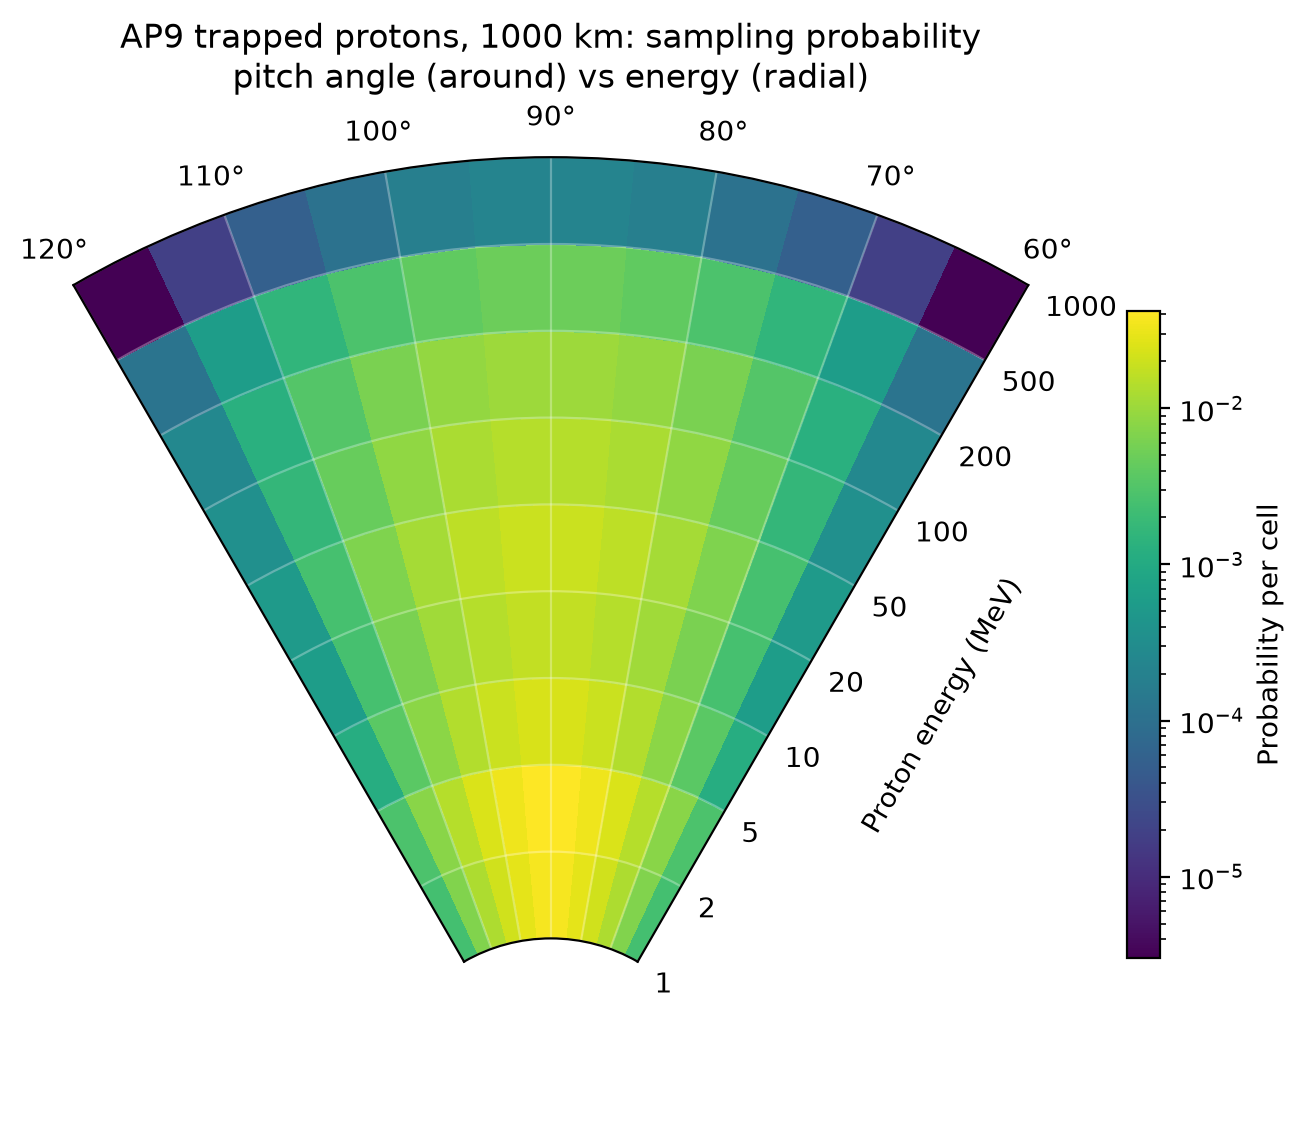
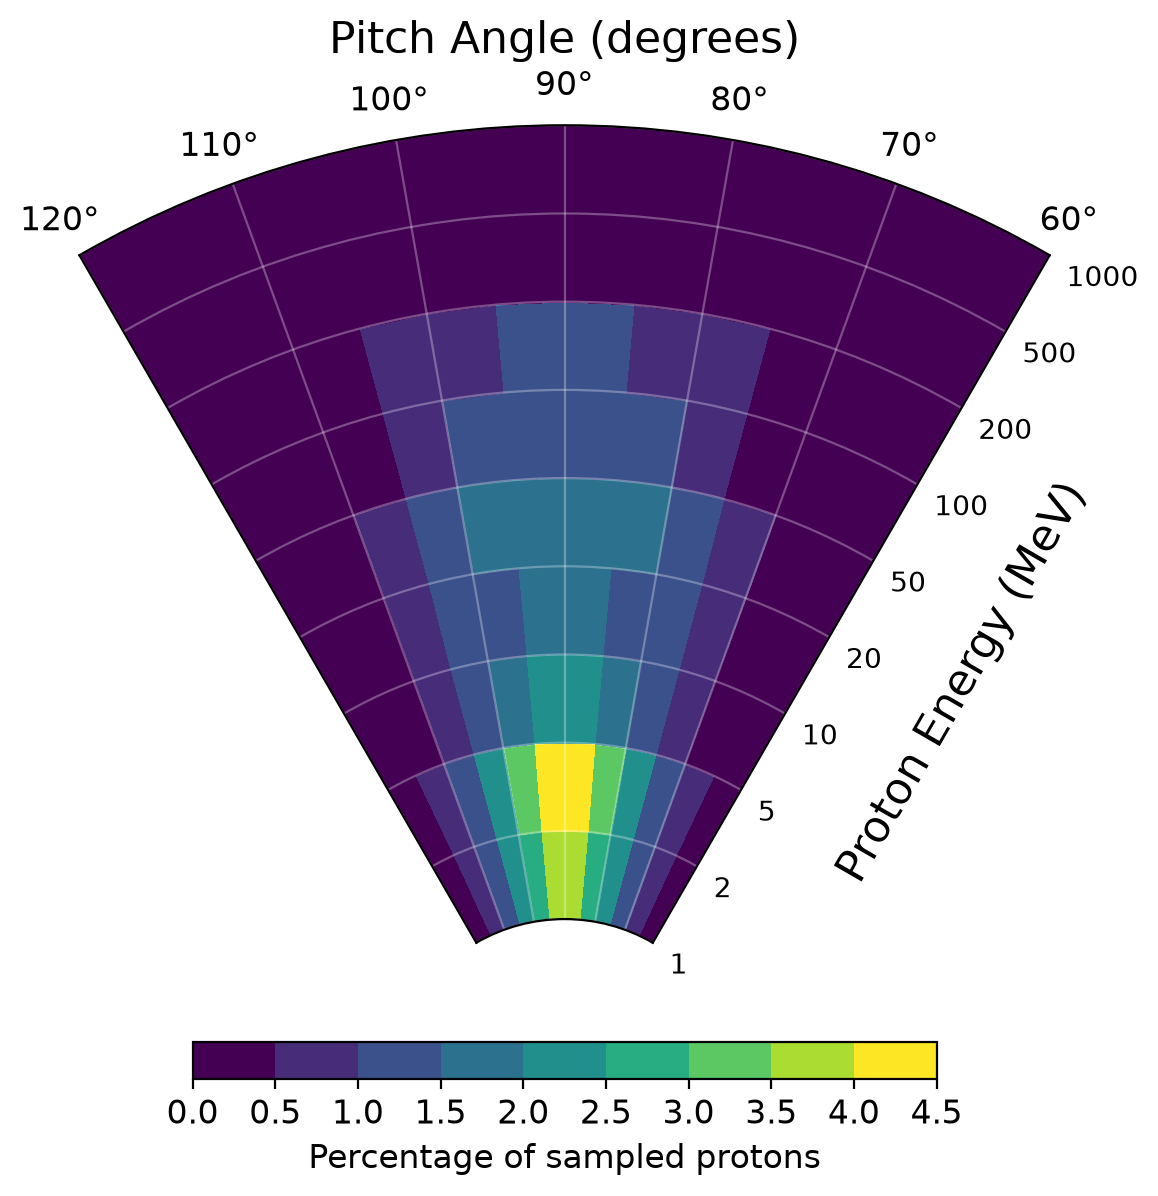
make end and side panels functional for counting and spectrum; initial plots with 200k particles

diff --git a/scripts/plot_neutron_energy_spectrum.py b/scripts/plot_neutron_energy_spectrum.py
@@ -1,5 +1,5 @@
 #!/usr/bin/env python3
-"""Reproduce the 'Neutron Energy Spectrum Shape' plot from EscapeNeutrons ntuples.
+"""Plot the escaping (or panel-entering, with --panel) neutron energy spectrum as raw counts.
 
 python plot_neutron_energy_spectrum.py build/outputs/proton_100MeV_Vacuum_seed1.root:Vacuum \
     build/outputs/proton_100MeV_Aluminum_seed1.root:Aluminum \
@@ -30,23 +30,59 @@ REF_COLORS = {  # darker shade of each material for the old/reference runs
     "WGPu": "#8b1a14",
 }
 
-E_MAX_MEV = 20.0
-N_BINS = 20  # 1 MeV wide bins
+BIN_MEV = 1.0
+E_MAX_MEV = 20.0  # above ~20 MeV it's hull background that doesn't depend on the payload; --emax to change
 
 
-def build_curve(spec: str, bin_edges: np.ndarray, bin_centers: np.ndarray):
+def load_energies(spec: str, panel: str | None = None):
     path, label = spec.rsplit(":", 1)
     with uproot.open(path) as f:
-        energies = f["EscapeNeutrons"]["escapeE_MeV"].array(library="np")
-        n_events = f["Events"].num_entries
+        if panel:
+            hits = f["PanelHits"].arrays(["panel", "E_MeV"], library="np")
+            energies = hits["E_MeV"][hits["panel"] == {"side": 0, "end": 1}[panel]]
+        else:
+            energies = f["EscapeNeutrons"]["escapeE_MeV"].array(library="np")
+        n_events = int(f["Events"].num_entries)
+    return label, n_events, energies
+
+
+def histogram(label, n_events, energies, bin_edges):
     counts, _ = np.histogram(energies, bins=bin_edges)
-    counts = counts.astype(float)
+    centers = 0.5 * (bin_edges[:-1] + bin_edges[1:])
+    keep = counts > 0
+    return label, n_events, centers[keep], counts[keep]
 
-    norm = counts[0] if counts[0] > 0 else 1.0
-    rel_counts = counts / norm
 
-    keep = rel_counts > 0
-    return label, n_events, bin_centers[keep], rel_counts[keep]
+def plot_ratio(raw, bin_edges, args) -> None:
+    """Each material's per-proton counts / the first file's, bin by bin. Bins where either is 0 are skipped."""
+    centers = 0.5 * (bin_edges[:-1] + bin_edges[1:])
+    base_label, base_n, base_e = raw[0]
+    base = np.histogram(base_e, bins=bin_edges)[0]
+
+    fig, ax = plt.subplots(figsize=(7.2, 6.4))
+    ax.axhline(1.0, color=COLORS.get(base_label, "black"), lw=1.5, ls=":", label=f"{base_label} (= 1)")
+    for label, n, e in raw[1:]:
+        c = np.histogram(e, bins=bin_edges)[0]
+        ok = (c > 0) & (base > 0)
+        r = (c[ok] / n) / (base[ok] / base_n)
+        err = r * np.sqrt(1 / c[ok] + 1 / base[ok])  # Poisson errors of both counts, in quadrature
+        color = COLORS.get(label, "black")
+        ax.errorbar(centers[ok], r, yerr=err, fmt="o--", color=color, ms=6, lw=1.5, capsize=2, alpha=0.8,
+                    label=label)
+
+    ax.set_yscale("log")
+    ax.set_xlim(bin_edges[0] - 0.5, bin_edges[-1] + 0.5)
+    ax.set_xlabel("Neutron Energy (MeV)", fontsize=16)
+    ax.set_ylabel(f"Counts / {base_label} counts ({args.bin_mev:g} MeV bins)", fontsize=16)
+    ax.set_title(f"{args.panel.title()} Panel Spectrum Ratio to {base_label}" if args.panel
+                 else f"Escaping Neutron Spectrum Ratio to {base_label}", fontsize=18)
+    ax.tick_params(labelsize=13)
+    ax.grid(True, color="#e5e5e5")
+    ax.set_axisbelow(True)
+    ax.legend(title="Sphere Material", fontsize=14, title_fontsize=12, handlelength=2.5)
+    fig.tight_layout()
+    fig.savefig(args.out, dpi=200)
+    print(f"Wrote {args.out}")
 
 
 def main() -> None:
@@ -54,12 +90,26 @@ def main() -> None:
     ap.add_argument("files", nargs="+", help="path.root:Label pairs (new runs)")
     ap.add_argument("--ref", action="append", default=[], help="path.root:Label pairs (old runs to overlay)")
     ap.add_argument("--out", default="neutron_energy_spectrum.png")
+    ap.add_argument("--panel", choices=["side", "end"],
+                    help="use neutrons entering this ScoringPanel (side=+x behind beam, end=+z); "
+                         "needs runs with a PanelHits ntuple")
+    ap.add_argument("--ratio", action="store_true",
+                    help="plot each material's counts divided by the FIRST file's (e.g. Vacuum), with sqrt(N) errors")
+    ap.add_argument("--bin-mev", type=float, default=BIN_MEV, help="energy bin width in MeV")
+    ap.add_argument("--emax", type=float, default=E_MAX_MEV,
+                    help="upper energy cut in MeV (neutrons above it are not plotted); 0 = highest energy in data")
     args = ap.parse_args()
 
-    bin_edges = np.linspace(0.0, E_MAX_MEV, N_BINS + 1)
-    bin_centers = 0.5 * (bin_edges[:-1] + bin_edges[1:])
-    curves = [build_curve(spec, bin_edges, bin_centers) for spec in args.files]
-    refs = [build_curve(spec, bin_edges, bin_centers) for spec in args.ref]
+    raw = [load_energies(spec, args.panel) for spec in args.files]
+    raw_refs = [load_energies(spec, args.panel) for spec in args.ref]
+    bw = args.bin_mev
+    e_max = args.emax or np.ceil(max(e.max() for _, _, e in raw + raw_refs if len(e)) / bw) * bw
+    bin_edges = np.arange(0.0, e_max + bw / 2, bw)
+    if args.ratio:
+        plot_ratio(raw, bin_edges, args)
+        return
+    curves = [histogram(*r, bin_edges) for r in raw]
+    refs = [histogram(*r, bin_edges) for r in raw_refs]
     full_events = max(n for _, n, _, _ in curves)
 
     fig, ax = plt.subplots(figsize=(7.2, 6.4))
@@ -71,10 +121,11 @@ def main() -> None:
         ax.plot(xs, ys, "o", color=color, ms=8)
 
     ax.set_yscale("log")
-    ax.set_xlim(-0.5, E_MAX_MEV + 0.5)
+    ax.set_xlim(-0.5, e_max + 0.5)
     ax.set_xlabel("Neutron Energy (MeV)", fontsize=16)
-    ax.set_ylabel("Relative Counts (E≈0 normalized)", fontsize=16)
-    ax.set_title("Neutron Energy Spectrum Shape", fontsize=18)
+    ax.set_ylabel(f"Counts per {bw:g} MeV bin ({full_events:,} protons)", fontsize=16)
+    ax.set_title(f"{args.panel.title()} Panel Neutron Energy Spectrum" if args.panel
+                 else "Escaping Neutron Energy Spectrum", fontsize=18)
     ax.tick_params(labelsize=13)
     ax.grid(True, color="#e5e5e5")
     ax.set_axisbelow(True)

diff --git a/src/PMSteppingAction.cc b/src/PMSteppingAction.cc
@@ -32,8 +32,8 @@ G4bool   PMSteppingAction::sKillGammas              = true;
 // For your current objective, this MUST default false (or you will never see escapes)
 G4bool   PMSteppingAction::sKillNeutronsAfterRecord = false;
 
-// Outside is vacuum; killing after escape is a safe speedup
-G4bool   PMSteppingAction::sKillNeutronsAfterEscape = true;
+// Must stay false for ScoringPanel tallies: a neutron killed at escape never reaches a panel.
+G4bool   PMSteppingAction::sKillNeutronsAfterEscape = false;
 
 thread_local int    PMSteppingAction::t_evtId                = -1;
 
@@ -52,6 +52,7 @@ thread_local double PMSteppingAction::t_tFirstFission_ns     = -1.0;
 
 thread_local std::array<int,6> PMSteppingAction::t_nBornByReg    = {0,0,0,0,0,0};
 thread_local std::array<int,6> PMSteppingAction::t_nEscByBirthReg= {0,0,0,0,0,0};
+thread_local std::array<int,2> PMSteppingAction::t_nPanelHits    = {0,0};
 
 thread_local std::unordered_map<int, PMSteppingAction::BirthInfo> PMSteppingAction::t_birth;
 thread_local std::unordered_set<int> PMSteppingAction::t_escaped;
@@ -75,7 +76,7 @@ void PMSteppingAction::BuildMessenger() {
   fMessenger->DeclareProperty("killNeutronsAfterRecord", sKillNeutronsAfterRecord)
             .SetGuidance("DEBUG ONLY: kill neutron at birth record (prevents escape tally).");
   fMessenger->DeclareProperty("killNeutronsAfterEscape", sKillNeutronsAfterEscape)
-            .SetGuidance("Recommended: kill neutrons after they cross into WorldLV.");
+            .SetGuidance("Kill neutrons after they cross into WorldLV (speedup; true disables ScoringPanel hits).");
 }
 
 int PMSteppingAction::RegionCodeFromLVName(const G4String& lvName) {
@@ -180,6 +181,7 @@ void PMSteppingAction::ResetEventStateIfNew(int eid) {
 
   t_nBornByReg.fill(0);
   t_nEscByBirthReg.fill(0);
+  t_nPanelHits.fill(0);
 
   t_birth.clear();
   t_escaped.clear();
@@ -271,6 +273,8 @@ void PMSteppingAction::WriteEventsRow() {
   ana->FillNtupleDColumn(id, PMRunAction::kEvt_pitch_deg, gen ? gen->GetLastPitchDeg() : -1.0);
   ana->FillNtupleIColumn(id, PMRunAction::kEvt_hitBus, t_primaryHitBus ? 1 : 0);
   ana->FillNtupleDColumn(id, PMRunAction::kEvt_E_primary_MeV, gen ? gen->GetEnergy()/MeV : -1.0);
+  ana->FillNtupleIColumn(id, PMRunAction::kEvt_nHitSide, t_nPanelHits[0]);
+  ana->FillNtupleIColumn(id, PMRunAction::kEvt_nHitEnd, t_nPanelHits[1]);
 
   ana->AddNtupleRow(id);
 }
@@ -417,6 +421,41 @@ void PMSteppingAction::UserSteppingAction(const G4Step* step) {
           return;
         }
       }
+    }
+  }
+
+  // Neutron entering a ScoringPanel (copy 0 = side +x, copy 1 = end +z).
+  // ponytail: counts every entry; panels are vacuum so a track can't re-enter. Dedupe per
+  // (trackID, panel) if the panels get a scattering material.
+  if (def == G4Neutron::Definition() && post && post->GetStepStatus() == fGeomBoundary) {
+    const auto* pv = post->GetPhysicalVolume();
+    if (pv && pv->GetLogicalVolume()->GetName() == "ScoringPanelLV") {
+      const int panel = pv->GetCopyNo();
+      if (panel == 0 || panel == 1) t_nPanelHits[panel] += 1;
+
+      BirthInfo bi;
+      auto it = t_birth.find(track->GetTrackID());
+      if (it != t_birth.end()) bi = it->second;
+
+      auto* ana = G4AnalysisManager::Instance();
+      const int hid = fRunAction->PanelHitsId();
+      const auto pos = post->GetPosition();
+      const auto dir = post->GetMomentumDirection();
+      ana->FillNtupleIColumn(hid, PMRunAction::kHit_eventID, t_evtId);
+      ana->FillNtupleIColumn(hid, PMRunAction::kHit_trackID, track->GetTrackID());
+      ana->FillNtupleIColumn(hid, PMRunAction::kHit_panel, panel);
+      ana->FillNtupleDColumn(hid, PMRunAction::kHit_E_MeV, post->GetKineticEnergy()/MeV);
+      ana->FillNtupleDColumn(hid, PMRunAction::kHit_t_ns, post->GetGlobalTime()/ns);
+      ana->FillNtupleDColumn(hid, PMRunAction::kHit_posX, pos.x()/mm);
+      ana->FillNtupleDColumn(hid, PMRunAction::kHit_posY, pos.y()/mm);
+      ana->FillNtupleDColumn(hid, PMRunAction::kHit_posZ, pos.z()/mm);
+      ana->FillNtupleDColumn(hid, PMRunAction::kHit_dirX, dir.x());
+      ana->FillNtupleDColumn(hid, PMRunAction::kHit_dirY, dir.y());
+      ana->FillNtupleDColumn(hid, PMRunAction::kHit_dirZ, dir.z());
+      ana->FillNtupleIColumn(hid, PMRunAction::kHit_birthRegion, bi.region);
+      ana->FillNtupleDColumn(hid, PMRunAction::kHit_birthE_MeV, bi.E_MeV);
+      ana->FillNtupleIColumn(hid, PMRunAction::kHit_creatorCode, bi.creator);
+      ana->AddNtupleRow(hid);
     }
   }
 }

diff --git a/scripts/plot_energies_and_angles_heatmap.py b/scripts/plot_energies_and_angles_heatmap.py
@@ -2,7 +2,7 @@
 
 Uses the same distribution the Geant4 gun samples from (/pmgun/pitchTable):
 weight = j(E, alpha) * sin(alpha) * dE, with j interpolated log-log in E and linear in alpha,
-mirrored about 90 deg. Each cell's color is its share of all sampled protons (log scale).
+mirrored about 90 deg. Each cell's color is its share of all sampled protons (linear scale).
 Pitch angle runs around the slice (90 deg straight up, 60/120 deg at the edges); energy runs
 radially, lowest energy nearest the center.
 
@@ -12,7 +12,8 @@ import argparse
 
 import matplotlib.pyplot as plt
 import numpy as np
-from matplotlib.colors import LogNorm
+from matplotlib.colors import BoundaryNorm
+from matplotlib.ticker import MaxNLocator
 
 ANGLE_EDGES = np.arange(60, 121, 5)                                       # deg
 ENERGY_EDGES = np.array([1, 2, 5, 10, 20, 50, 100, 200, 500, 1000])  # MeV
@@ -64,28 +65,35 @@ def main():
     theta = np.radians(ANGLE_EDGES)
     r = np.arange(n_e + 1)  # energy edge i sits at radius i: low energy at the center
 
+    fs = plt.rcParams["font.size"] + 2
     fig, ax = plt.subplots(figsize=(8, 7), subplot_kw={"projection": "polar"})
     cmap = plt.get_cmap("viridis").copy()
     cmap.set_bad("white")  # zero-probability cells (e.g. above the spectrum cut-off)
-    pos = prob[prob > 0]
-    mesh = ax.pcolormesh(theta, r, np.ma.masked_equal(prob, 0).T, cmap=cmap, shading="flat",
-                         norm=LogNorm(vmin=max(pos.min(), pos.max() * 1e-8), vmax=pos.max()))
+    pct = 100 * prob
+    # Discrete linear bins: a stepped colorbar makes neighbouring cells easy to tell apart.
+    levels = MaxNLocator(nbins=10).tick_values(0, pct.max())
+    mesh = ax.pcolormesh(theta, r, np.ma.masked_equal(pct, 0).T, cmap=cmap, shading="flat",
+                         norm=BoundaryNorm(levels, cmap.N))
 
     ax.set_thetamin(ANGLE_EDGES[0])
     ax.set_thetamax(ANGLE_EDGES[-1])
     ax.set_xticks(np.radians(ANGLE_EDGES[::2]))
-    ax.set_xticklabels([f"{d}°" for d in ANGLE_EDGES[::2]])
+    ax.set_xticklabels([f"{d}°" for d in ANGLE_EDGES[::2]], fontsize=fs)
     ax.set_rorigin(-2)  # small hole so the innermost (lowest-energy) ring isn't squeezed to a point
     ax.set_ylim(0, n_e)
     ax.set_yticks(r)
-    ax.set_yticklabels([f"{e:g}" for e in ENERGY_EDGES])
+    ax.set_yticklabels([f"{e:g}" for e in ENERGY_EDGES], fontsize=fs)
     # Energy tick labels sit along the 60 deg edge; put the axis label just outside them.
-    ax.text(np.radians(ANGLE_EDGES[0] - 14), n_e / 2, "Proton energy (MeV)", rotation=ANGLE_EDGES[0],
-            ha="center", va="center")
-    ax.set_title("AP9 trapped protons, 1000 km: sampling probability\npitch angle (around) vs energy (radial)")
+    ax.text(np.radians(ANGLE_EDGES[0] - 14), n_e / 2, "Proton Energy (MeV)", rotation=ANGLE_EDGES[0],
+            ha="center", va="center", fontsize=fs + 4)
+    # The title slot sits just above the arc's tick labels, so it doubles as the pitch-angle axis label.
+    ax.set_title("Pitch Angle (degrees)", fontsize=fs + 4)
     ax.grid(color="white", alpha=0.3)
 
-    fig.colorbar(mesh, ax=ax, shrink=0.6, pad=0.08, label="Probability per cell")
+    cbar = fig.colorbar(mesh, ax=ax, orientation="horizontal", location="bottom", shrink=0.6, pad=-0.05,
+                        ticks=levels)
+    cbar.set_label("Percentage of sampled protons", fontsize=fs)
+    cbar.ax.tick_params(labelsize=fs)
     fig.savefig(a.out, dpi=200, bbox_inches="tight")
     print(f"wrote {a.out}")
 

diff --git a/scripts/plot_multi_neutron_escape.py b/scripts/plot_multi_neutron_escape.py
@@ -14,6 +14,7 @@ Needs numpy, matplotlib and uproot (pip install uproot); no ROOT install require
 import argparse
 
 import matplotlib.pyplot as plt
+from matplotlib.ticker import MaxNLocator
 import numpy as np
 import uproot
 
@@ -38,10 +39,11 @@ def survival_curve(n_escaped: np.ndarray, n_max: int) -> tuple[np.ndarray, np.nd
     return ns, probs
 
 
-def build_curve(spec: str):
+def build_curve(spec: str, panel: str | None = None):
     path, label = spec.rsplit(":", 1)
     with uproot.open(path) as f:
-        n_escaped = f["Events"]["nEscapedTotal"].array(library="np")
+        column = {"side": "nHitSide", "end": "nHitEnd"}.get(panel, "nEscapedTotal")
+        n_escaped = f["Events"][column].array(library="np")
     ns, probs = survival_curve(n_escaped, int(n_escaped.max()))
     keep = probs > 0
     return label, len(n_escaped), ns[keep], probs[keep]
@@ -52,10 +54,13 @@ def main() -> None:
     ap.add_argument("files", nargs="+", help="path.root:Label pairs (new runs)")
     ap.add_argument("--ref", action="append", default=[], help="path.root:Label pairs (old runs to overlay)")
     ap.add_argument("--out", default="multi_neutron_escape.png")
+    ap.add_argument("--panel", choices=["side", "end"],
+                    help="count neutrons entering this ScoringPanel (side=+x behind beam, end=+z); "
+                         "needs runs with nHitSide/nHitEnd")
     args = ap.parse_args()
 
-    curves = [build_curve(spec) for spec in args.files]
-    refs = [build_curve(spec) for spec in args.ref]
+    curves = [build_curve(spec, args.panel) for spec in args.files]
+    refs = [build_curve(spec, args.panel) for spec in args.ref]
     full_events = max(n for _, n, _, _ in curves)
     n_max = max(ns.max() for _, _, ns, _ in curves + refs)
 
@@ -68,11 +73,15 @@ def main() -> None:
         ax.plot(ns, probs, "o", color=color, ms=8)
 
     ax.set_yscale("log")
-    ax.set_ylim(1e-5, 2.0)
+    # Floor just under one event (1/N), so single-event tail points stay on the plot.
+    ax.set_ylim(0.5 / full_events, 2.0)
     ax.set_xlim(-0.5, n_max + 0.5)
-    ax.set_xlabel("Escaping Neutrons (per Proton)", fontsize=16)
-    ax.set_ylabel("Probability of ≥ N Escaping Neutrons", fontsize=16)
-    ax.set_title("Probability of Multi-Neutron Escapes", fontsize=18)
+    ax.xaxis.set_major_locator(MaxNLocator(integer=True))
+    what = f"Neutrons Entering {args.panel.title()} Panel" if args.panel else "Escaping Neutrons"
+    ax.set_xlabel(f"{what} (per Proton)", fontsize=16)
+    ax.set_ylabel(f"Probability of ≥ N {what}", fontsize=16 if not args.panel else 14)
+    ax.set_title(f"{args.panel.title()} Panel Multi-Neutron Escape Probability" if args.panel
+                 else "Probability of Multi-Neutron Escapes", fontsize=18)
     ax.tick_params(labelsize=13)
     ax.grid(True, color="#e5e5e5")
     ax.set_axisbelow(True)

diff --git a/src/PMRunAction.cc b/src/PMRunAction.cc
@@ -154,6 +154,8 @@ void PMRunAction::SetupOutput() {
   ana->CreateNtupleDColumn(fEventsNtupleId, "pitch_deg");
   ana->CreateNtupleIColumn(fEventsNtupleId, "hitBus");
   ana->CreateNtupleDColumn(fEventsNtupleId, "E_primary_MeV");
+  ana->CreateNtupleIColumn(fEventsNtupleId, "nHitSide");
+  ana->CreateNtupleIColumn(fEventsNtupleId, "nHitEnd");
   ana->FinishNtuple(fEventsNtupleId);
 
   // ---- EscapeNeutrons (one row per neutron that escapes satellite) ----
@@ -180,6 +182,24 @@ void PMRunAction::SetupOutput() {
   ana->CreateNtupleIColumn(fEscapesNtupleId, "creatorProcessType");
   ana->CreateNtupleIColumn(fEscapesNtupleId, "creatorProcessSubType");
   ana->FinishNtuple(fEscapesNtupleId);
+
+  // ---- PanelHits (one row per neutron entering a ScoringPanel) ----
+  fPanelHitsNtupleId = ana->CreateNtuple("PanelHits", "Neutrons entering a ScoringPanel");
+  ana->CreateNtupleIColumn(fPanelHitsNtupleId, "eventID");
+  ana->CreateNtupleIColumn(fPanelHitsNtupleId, "trackID");
+  ana->CreateNtupleIColumn(fPanelHitsNtupleId, "panel");
+  ana->CreateNtupleDColumn(fPanelHitsNtupleId, "E_MeV");
+  ana->CreateNtupleDColumn(fPanelHitsNtupleId, "t_ns");
+  ana->CreateNtupleDColumn(fPanelHitsNtupleId, "posX_mm");
+  ana->CreateNtupleDColumn(fPanelHitsNtupleId, "posY_mm");
+  ana->CreateNtupleDColumn(fPanelHitsNtupleId, "posZ_mm");
+  ana->CreateNtupleDColumn(fPanelHitsNtupleId, "dirX");
+  ana->CreateNtupleDColumn(fPanelHitsNtupleId, "dirY");
+  ana->CreateNtupleDColumn(fPanelHitsNtupleId, "dirZ");
+  ana->CreateNtupleIColumn(fPanelHitsNtupleId, "birthRegion");
+  ana->CreateNtupleDColumn(fPanelHitsNtupleId, "birthE_MeV");
+  ana->CreateNtupleIColumn(fPanelHitsNtupleId, "creatorCode");
+  ana->FinishNtuple(fPanelHitsNtupleId);
 }
 
 
